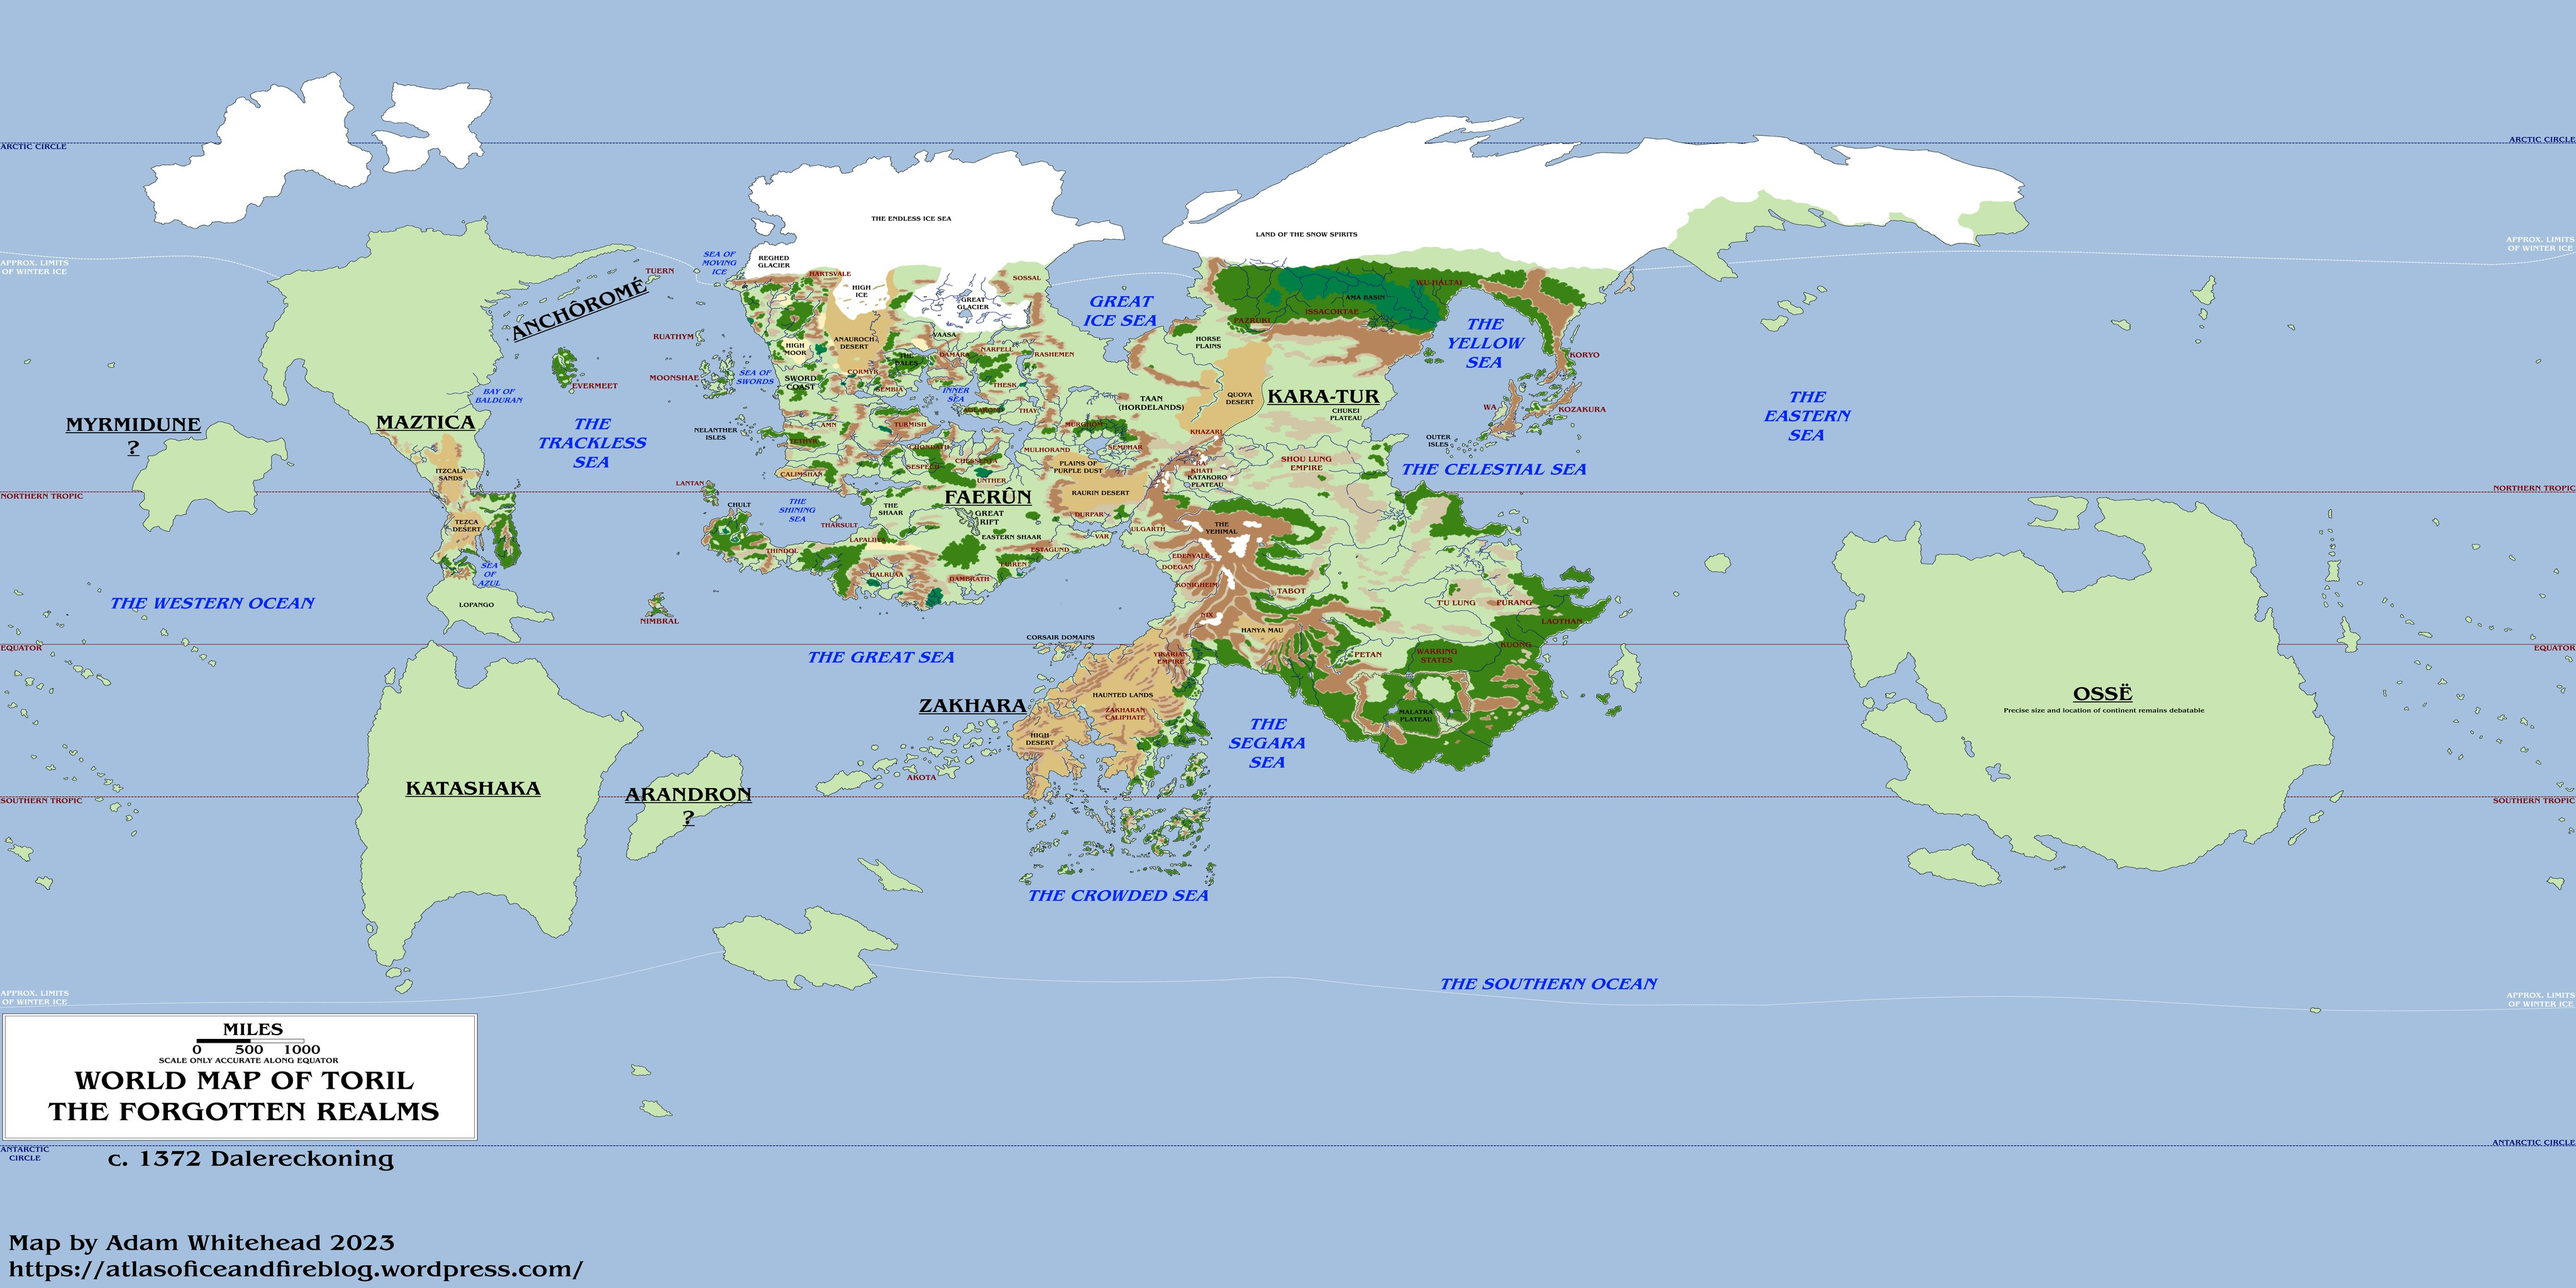
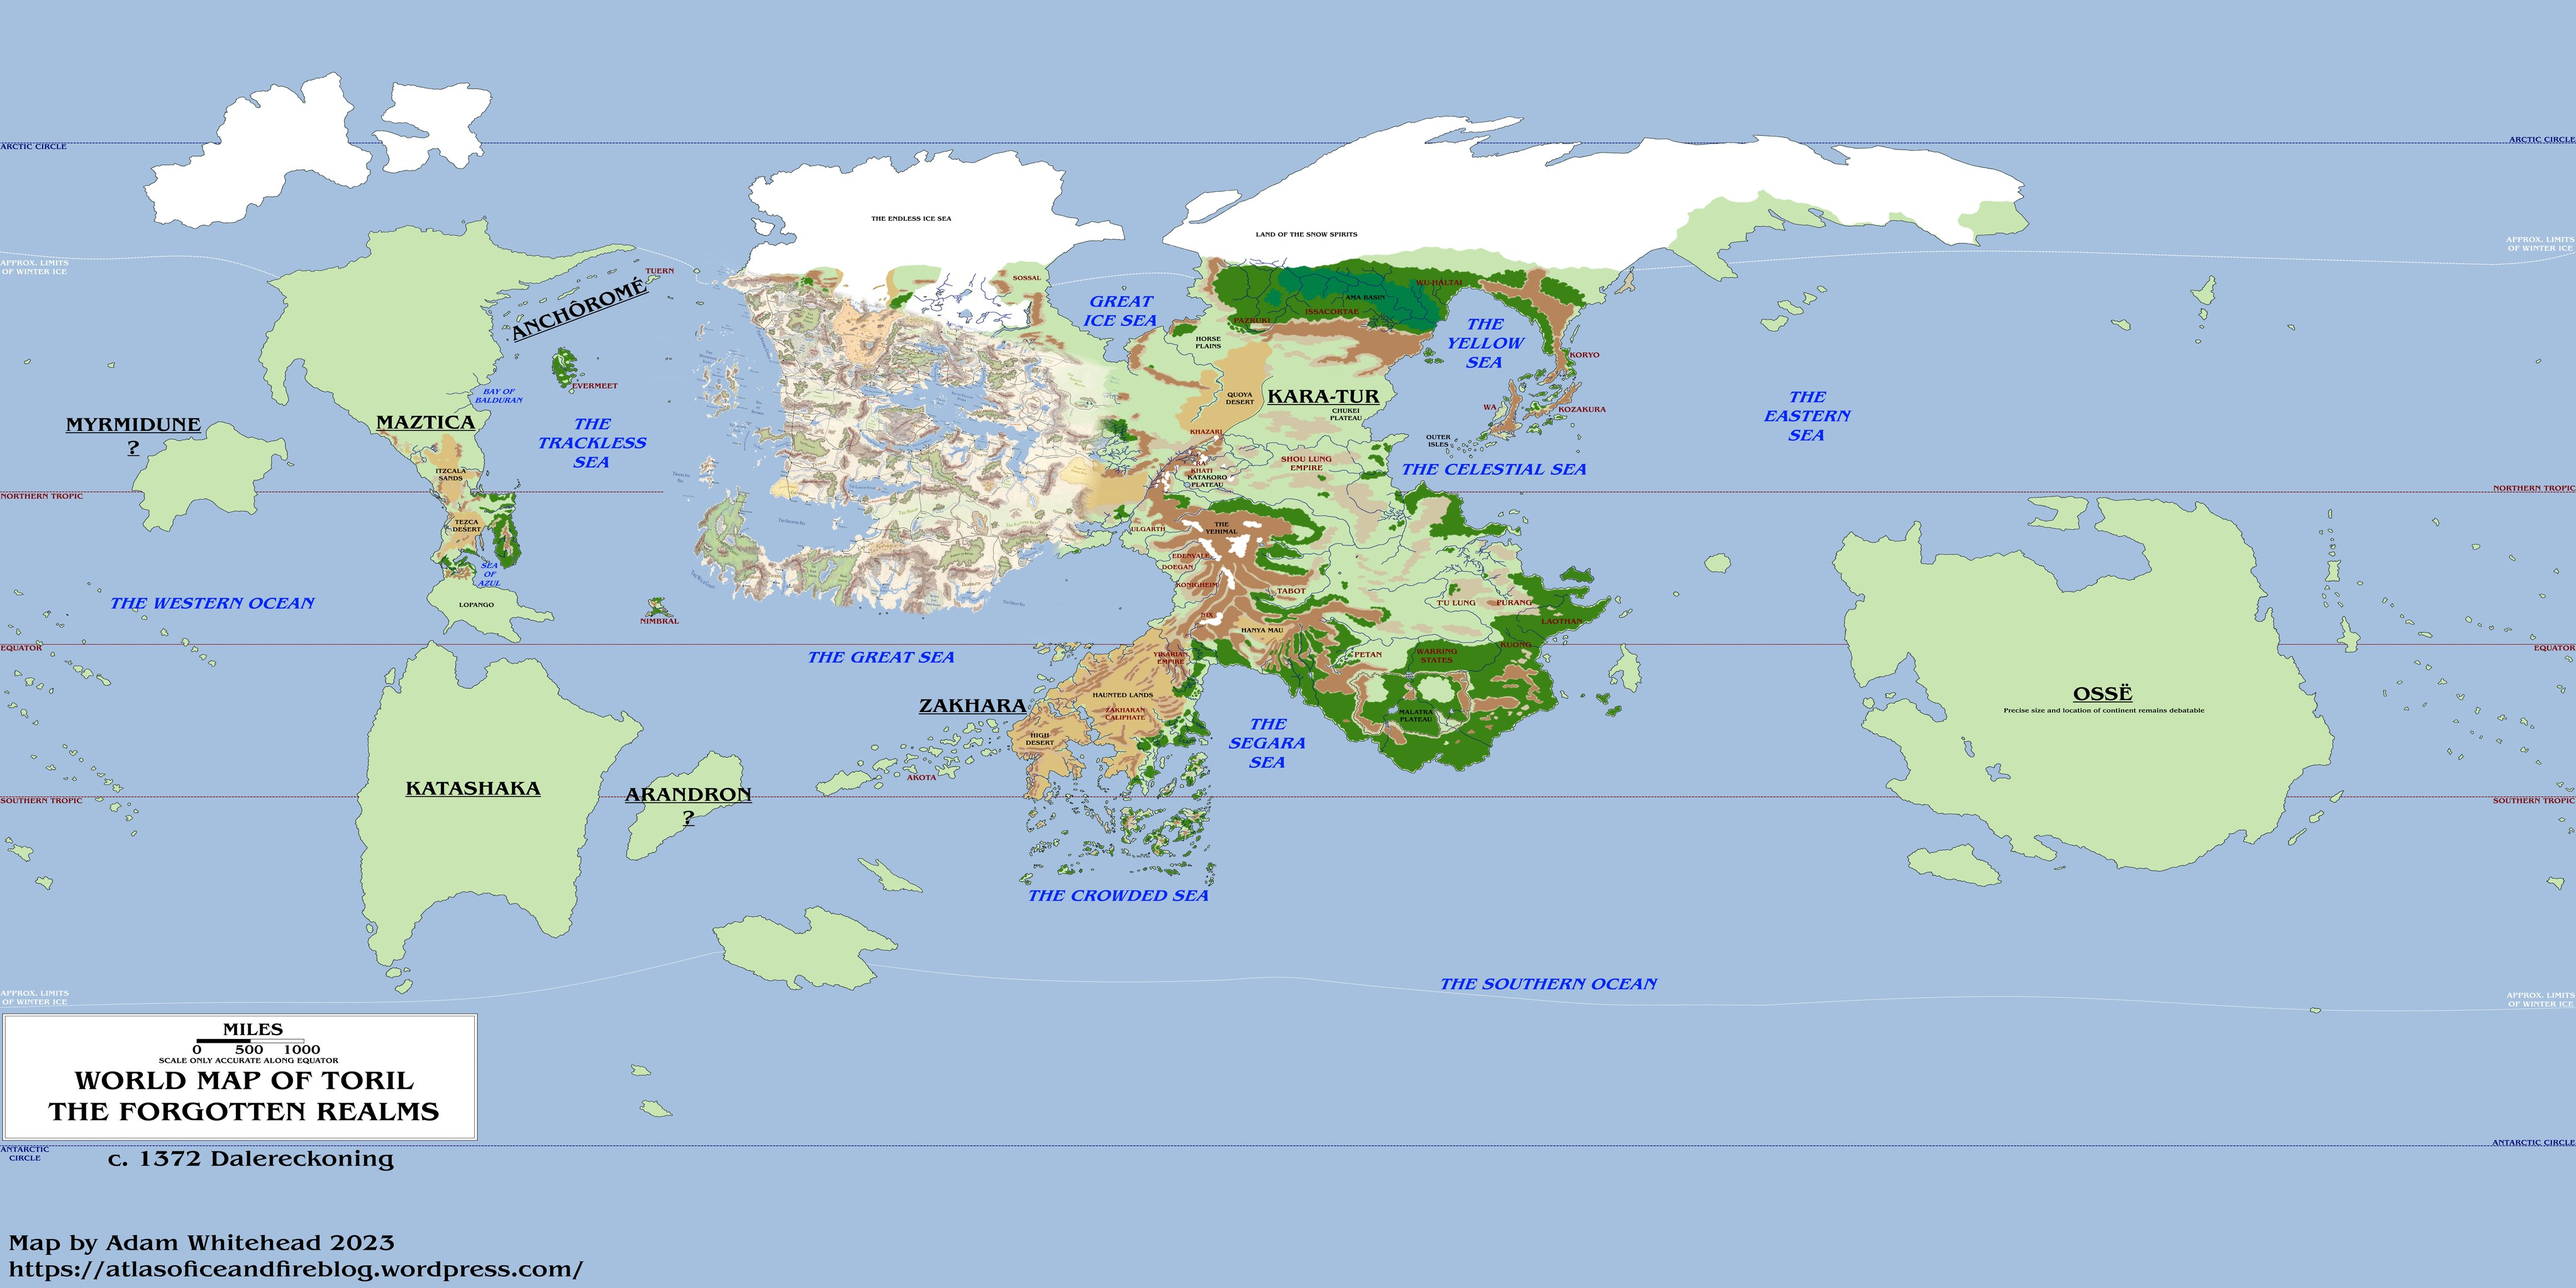
Calimport page: globe uses the Toril map with the detailed Faerun map laid over it
Adds a 16k texture for large screens whose GPU takes it, keeps 8k and 4k tiers, and moves the pin onto the Faerun map's own Calimport dot. The credit line now names both maps.

Changed region(s): [[0.25, 0.1875, 0.4375, 0.5]]

diff --git a/dnd/calimport-kjo4upkl7v/globe.js b/dnd/calimport-kjo4upkl7v/globe.js
@@ -13,10 +13,9 @@ const SETTINGS = {
   starBrightness: 2.95,
 };
 
-// Pixel position of Calimport on toril-2023-1.png (9864 x 5626). The source map has no city dots, so
-// this comes from the WotC 3E Faerun map, which puts the city on the south coast below the eastern end
-// of the Calim Desert. The desert and the Marching Mountains line the two maps up.
-const PINS = [{ id: "calimport", label: "Calimport", u: 3052 / 9864, v: 2080 / 5626 }];
+// Pixel position of Calimport on toril-2023-1.png (9864 x 5626). The surface is that map with the WotC
+// 3E Faerun map warped over it, and this is where the Faerun map's own Calimport dot lands after the warp.
+const PINS = [{ id: "calimport", label: "Calimport", u: 3025 / 9864, v: 2178.9 / 5626 }];
 
 const STAR_LAYERS = [
   { count: 14000, size: 1.3, radius: 800, colors: ["#ffffff", "#fff8e7", "#ffe4b5"] },
@@ -123,8 +122,12 @@ export function mountGlobe(host, { onProgress, onReady, onError } = {}) {
     return { ...p, el, pos: uvToVec(p.u, p.v) };
   });
 
-  const big = renderer.capabilities.maxTextureSize >= 8192 && window.innerWidth > 700;
-  const src = new URL(big ? "toril-8192.jpg" : "toril-4096.jpg", import.meta.url).href;
+  // 16k only on big screens with a GPU that takes it and memory to spare: the texture alone is
+  // about 0.7 GB of GPU memory with mipmaps. Phones get 4k.
+  const maxTex = renderer.capabilities.maxTextureSize, wide = window.innerWidth;
+  const size = maxTex >= 16384 && wide > 1200 && (navigator.deviceMemory ?? 8) >= 8 ? 16384
+    : maxTex >= 8192 && wide > 700 ? 8192 : 4096;
+  const src = new URL(`toril-${size}.jpg`, import.meta.url).href;
   const loader = new THREE.TextureLoader();
   // TextureLoader in r122 ignores progress, so fetch the bytes ourselves for a real progress bar.
   fetch(src).then(async (res) => {

diff --git a/dnd/calimport-kjo4upkl7v/index.html b/dnd/calimport-kjo4upkl7v/index.html
@@ -65,7 +65,7 @@ dl.gloss dd { margin: 2px 0 0; color: var(--on-surface-variant); }
     <button class="fill" id="fly"><i>my_location</i><span>Fly to Calimport</span></button>
     <button class="border" id="reset" style="color:#fff;border-color:#fff8"><i>public</i><span>Whole world</span></button>
   </div>
-  <div class="ov credit"><span class="drag">Drag to turn, scroll or pinch to zoom.<br></span>Map: World Map of Toril by Adam Whitehead, <a href="https://atlasoficeandfireblog.wordpress.com/" rel="noopener">Atlas of Ice and Fire</a>. Calimport pin is approximate.</div>
+  <div class="ov credit"><span class="drag">Drag to turn, scroll or pinch to zoom.<br></span>Maps: World Map of Toril by Adam Whitehead, <a href="https://atlasoficeandfireblog.wordpress.com/" rel="noopener">Atlas of Ice and Fire</a>. Faerûn from the Wizards of the Coast 3E map.</div>
   <div class="ov loadbar" id="loadbar"><progress id="progress" value="0" max="1"></progress></div>
 </section>
 
